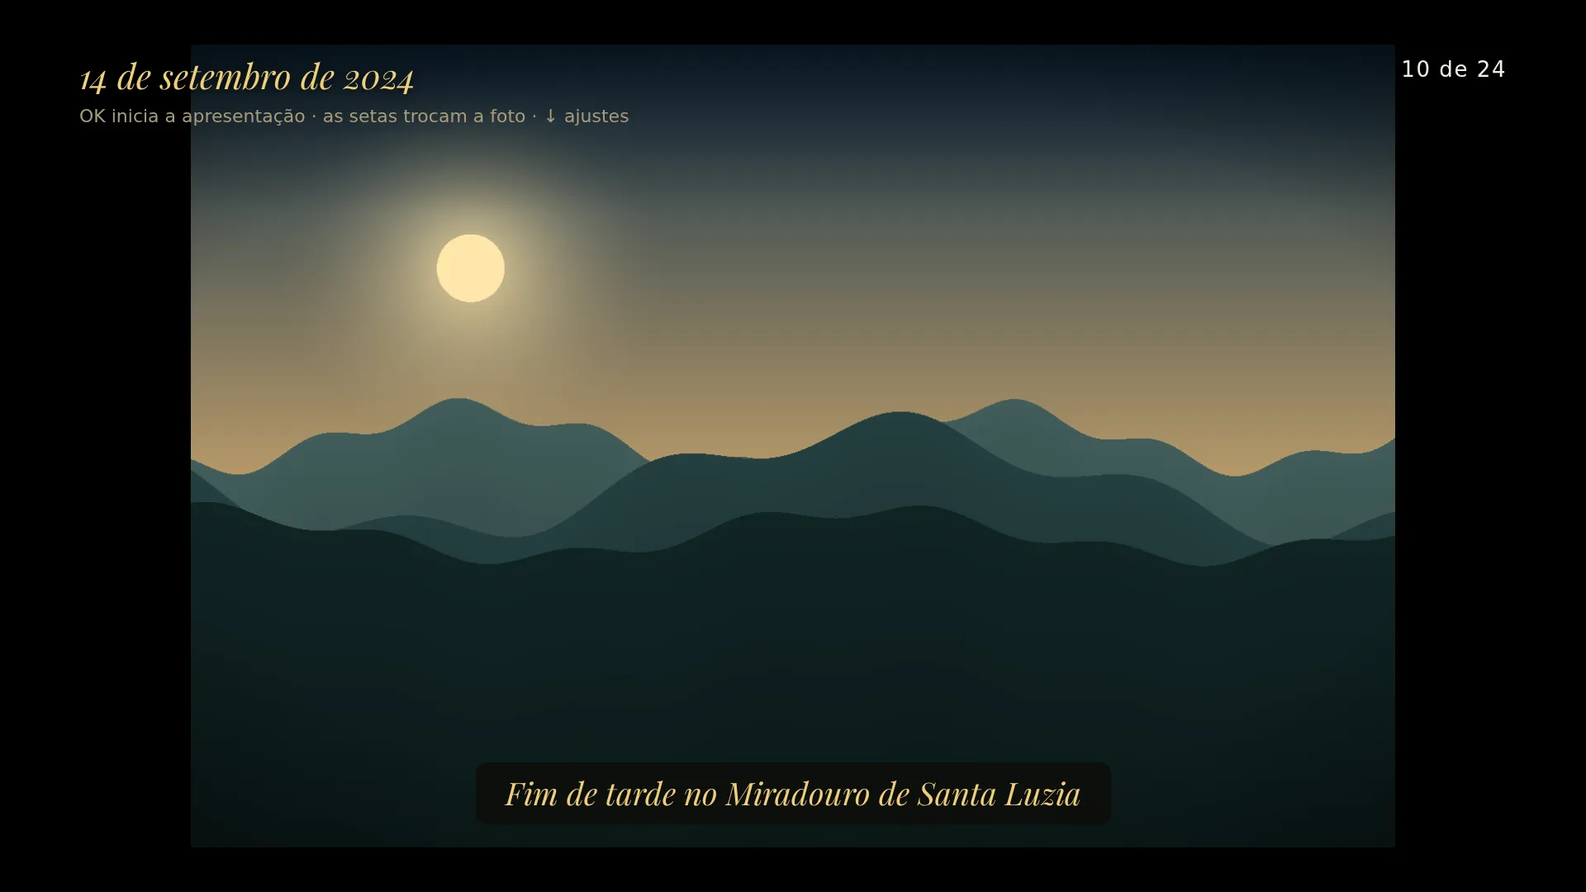
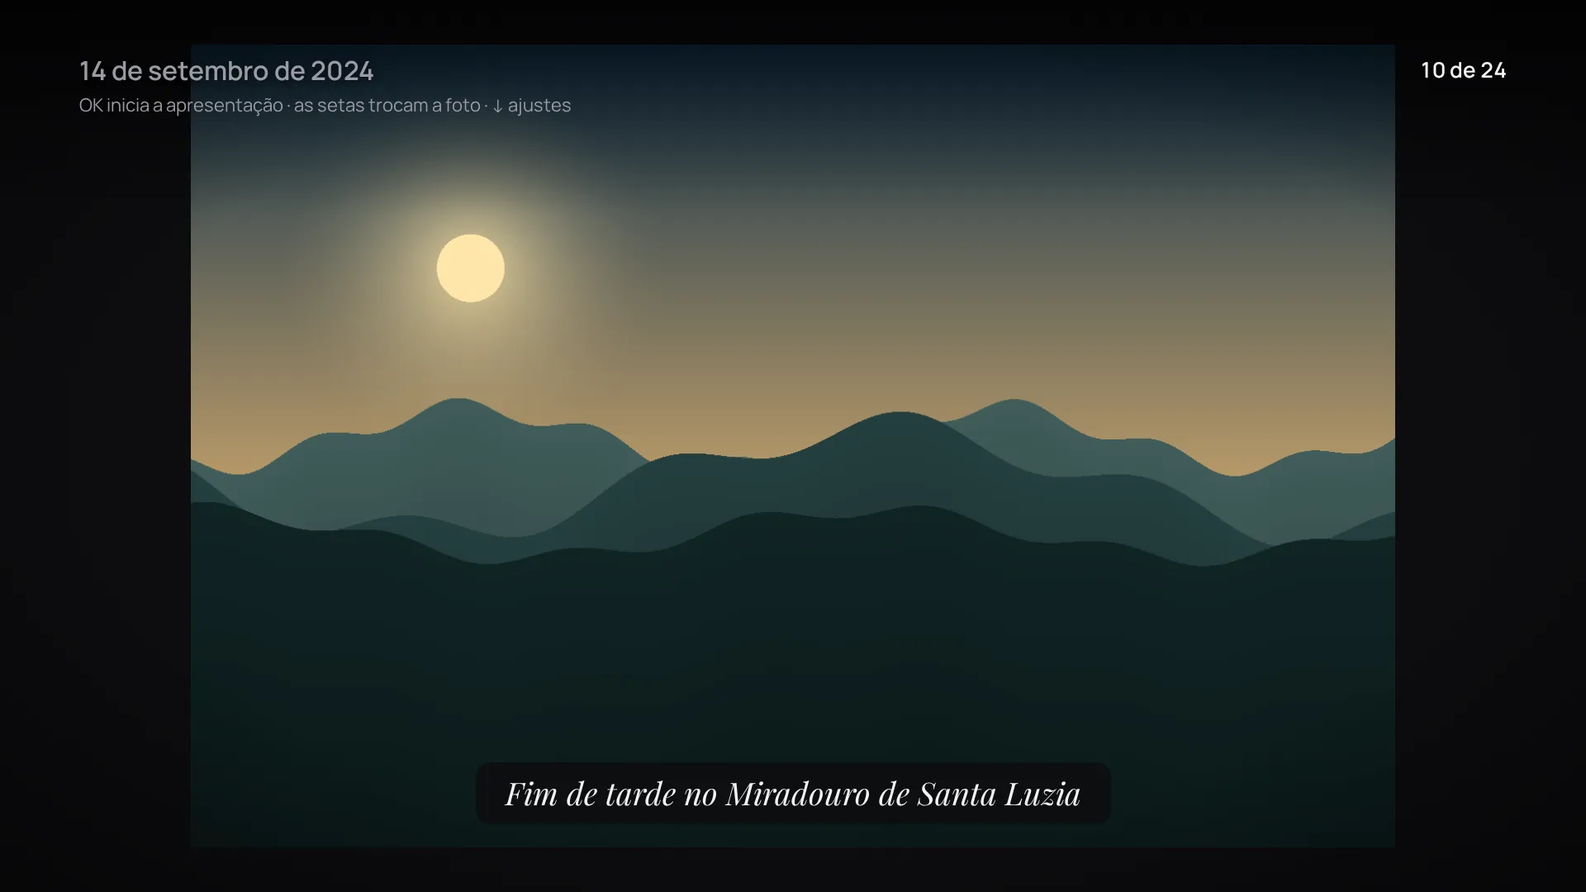
docs: capture the new look and document the modern identity
The screenshots of docs/screenshots/ are captured again with the graphite
and amber look. The README describes the look and links the comparison of
the icons, CONTRIBUTING the palette (its channels and shades), the type, the
logo, the focus and the screenshots, CLAUDE.md the rules of the look, and
the docs of both TV packages show the new icon. The CHANGELOG says the TV
packages need building again for it.

Changed region(s): [[0.0312, 0.0611, 0.4062, 0.1528], [0.3125, 0.8861, 0.6875, 0.9167], [0.875, 0.0611, 0.9688, 0.0917]]

diff --git a/CONTRIBUTING.md b/CONTRIBUTING.md
@@ -24,31 +24,31 @@ load where the key reaches them without the app.
 
 ### Make targets
 
-| Command                    | Description                                                                         |
-| -------------------------- | ----------------------------------------------------------------------------------- |
-| `make setup`               | Install the locked dependencies and the git hooks.                                  |
-| `make dev`                 | Serve the app with hot reload (Vite).                                               |
-| `make build`               | Bundle `dist/` and the webOS build, and check them against Chromium 68.             |
-| `make logo`                | Write the logo files from `scripts/logo/mark.ts` (the app's mark and `docs/logo/`). |
-| `make screenshots`         | Capture the main screens at 1920x1080 into `docs/screenshots/` (Playwright).        |
-| `make package-webos`       | Package the build as the LG webOS app (`.ipk`), see `docs/webos.md`.                |
-| `make test-webos`          | Run the `.ipk` from `file://` in a headless Chromium (Playwright).                  |
-| `make package-tizen`       | Package the build as the Samsung Tizen app (unsigned `.wgt`), see `docs/tizen.md`.  |
-| `make test-tizen`          | Run the `.wgt` from `file://` in a headless Chromium (Playwright).                  |
-| `make format`              | Format (Prettier) and apply the fixes ESLint can make.                              |
-| `make lint`                | ESLint, Stylelint and the Prettier check.                                           |
-| `make typecheck`           | tsc 7 strict: the app, the core alone, the tests and the tooling.                   |
-| `make test`                | Unit tests with coverage (100%, a ratchet).                                         |
-| `make lint-arch`           | Architecture contracts (dependency-cruiser).                                        |
-| `make dead-code`           | Unused files, exports and dependencies (knip).                                      |
-| `make audit`               | Known vulnerabilities in the dependencies.                                          |
-| `make suppressions`        | Suppression ratchet against `suppressions-baseline.json`.                           |
-| `make quality`             | All of the above but the build: what the pre-commit hook runs.                      |
-| `make mutation`            | Mutation testing of the whole core (weekly in CI).                                  |
-| `make mutation-changed`    | Mutation testing of the core files changed against `BASE` (`origin/main`).          |
-| `make suppressions-update` | Lower the suppression baseline after removing suppressions.                         |
-| `make risk-labels`         | Create or update the `risk:<level>` labels on GitHub (needs `gh`).                  |
-| `make all`                 | Everything CI runs on a pull request.                                               |
+| Command                    | Description                                                                               |
+| -------------------------- | ----------------------------------------------------------------------------------------- |
+| `make setup`               | Install the locked dependencies and the git hooks.                                        |
+| `make dev`                 | Serve the app with hot reload (Vite).                                                     |
+| `make build`               | Bundle `dist/` and the webOS build, and check them against Chromium 68.                   |
+| `make logo`                | Write the logo files from `scripts/logo/mark.ts` (the app's mark and icon, `docs/logo/`). |
+| `make screenshots`         | Capture the main screens at 1920x1080 into `docs/screenshots/` (Playwright).              |
+| `make package-webos`       | Package the build as the LG webOS app (`.ipk`), see `docs/webos.md`.                      |
+| `make test-webos`          | Run the `.ipk` from `file://` in a headless Chromium (Playwright).                        |
+| `make package-tizen`       | Package the build as the Samsung Tizen app (unsigned `.wgt`), see `docs/tizen.md`.        |
+| `make test-tizen`          | Run the `.wgt` from `file://` in a headless Chromium (Playwright).                        |
+| `make format`              | Format (Prettier) and apply the fixes ESLint can make.                                    |
+| `make lint`                | ESLint, Stylelint and the Prettier check.                                                 |
+| `make typecheck`           | tsc 7 strict: the app, the core alone, the tests and the tooling.                         |
+| `make test`                | Unit tests with coverage (100%, a ratchet).                                               |
+| `make lint-arch`           | Architecture contracts (dependency-cruiser).                                              |
+| `make dead-code`           | Unused files, exports and dependencies (knip).                                            |
+| `make audit`               | Known vulnerabilities in the dependencies.                                                |
+| `make suppressions`        | Suppression ratchet against `suppressions-baseline.json`.                                 |
+| `make quality`             | All of the above but the build: what the pre-commit hook runs.                            |
+| `make mutation`            | Mutation testing of the whole core (weekly in CI).                                        |
+| `make mutation-changed`    | Mutation testing of the core files changed against `BASE` (`origin/main`).                |
+| `make suppressions-update` | Lower the suppression baseline after removing suppressions.                               |
+| `make risk-labels`         | Create or update the `risk:<level>` labels on GitHub (needs `gh`).                        |
+| `make all`                 | Everything CI runs on a pull request.                                                     |
 
 ## Making a change
 
@@ -91,28 +91,44 @@ writes is out of scope.
 
 ## The look of the app
 
-- **Palette**: a warm near-black background (`#0E0C09`), surfaces (`#1B1710`), golds (`#D4A93C`,
-  light `#F0CF7A`, dark `#8A6A1F`, for lines only) and warm text (`#F4EEDF`, secondary `#A89B7C`):
-  the custom properties at the top of `src/ui/styles.css`, the same colors as the logo. Every text
+- **Palette**: neutral graphite with one soft amber accent: background `#0C0C0E`, surface `#17171B`,
+  raised surface `#222228`, border `#2B2B33`, text `#F4F4F6`, secondary text `#9B9BA7`, amber
+  `#F0B65A` (light `#FFD08A`, dark `#B8802D`) and danger `#E5625A`, kept for destructive actions.
+  They are the custom properties at the top of `src/ui/styles.css`, the only place a color is
+  written (the `--gold` names are the amber): a color changes on its line. Those that also show with
+  transparency are written as their channels (`--gold-rgb: 240 182 90`), and every shade of them is
+  `rgb(var(--gold-rgb) / 30%)` (Chromium 65 reads it), never a hexadecimal of its own. The logo
+  (`scripts/logo/mark.ts`) draws with the same colors. Every text
   keeps a contrast of 4.5:1 or more with what is behind it.
-- **Type**: Playfair Display (SIL Open Font License, `src/ui/fonts/OFL.txt`) for titles, names and
-  dates, as two Latin-subset WOFF2 files (normal and italic, about 44 KB) with `font-display: swap`;
-  the font of the system for the rest. No font is loaded from the network.
-- **The logo** is drawn from its shapes in `scripts/logo/mark.ts`: an M on the horizon under the
-  arch of a rising sun, over two lines of water. `make logo` writes it as SVG
-  (`src/ui/assets/mirante-mark.svg`, which the app shows, and `docs/logo/`, with the horizontal logo
-  and its name in Playfair Display), and the TV packages rasterize the same shapes into their icons
-  (`scripts/packaging/icon.ts`). Never edit the SVG files by hand: a test fails while one differs
+- **Type**: Manrope (SIL Open Font License, `src/ui/fonts/OFL.txt`), a geometric sans-serif, for the
+  whole interface, titles included, in its weights 400, 600 and 700; hierarchy comes from weight
+  and size, never from ornaments, and counters, counts and years use tabular figures
+  (`font-variant-numeric: tabular-nums`). The italic of Playfair Display only sets the captions of
+  the photos (the photo book, when it comes, keeps it for the title of its cover). Four Latin-subset WOFF2 files, about
+  64 KB, with `font-display: swap`; no font is loaded from the network.
+- **The logo** is drawn from its shapes in `scripts/logo/mark.ts` (`scripts/logo/shapes.ts`: strokes
+  of one width with round ends and corners, and disks): two rounded peaks in one amber stroke that
+  make a geometric M, and the sun, a dot above and to the right of the right peak. The icon sets it
+  on a rounded graphite square with a diagonal gradient (`#1B1B20` to `#0E0E11`). `make logo` writes
+  `src/ui/assets/mirante-mark.svg` and `mirante-icon.svg`, which the app shows (the mark on the
+  screens, the icon on the opening), and `docs/logo/`: the icon and the horizontal logo, the mark and
+  the name in lowercase Manrope semibold, slightly tightened. The TV packages rasterize the same
+  shapes and gradient into their icons (`scripts/packaging/icon.ts`). The two alternatives the icon
+  was chosen against (`scripts/logo/alternatives.ts`) only show in
+  `docs/screenshots/icone-alternativas.webp`. Never edit the SVG files by hand: a test fails while one differs
   from the shapes.
+- **Focus**: an amber ring of 3 px, one short glow and a growth to 1.04 (`--focus-glow` and
+  `--focus-scale`), on every focusable element; the focus never leaves a doubt.
 - **Motion and effects for the TVs' GPUs**: only `opacity` and `transform` animate (screens fade in
-  in 320 ms, the viewer's transitions take 0.9 to 1.5 s and the slow zoom drifts for the time of a
-  photo, the focused tile grows to 1.04), shadows and glows stay
+  in 320 ms, the icon of the opening appears by opacity and a short scale, the viewer's transitions
+  take 0.9 to 1.5 s and the slow zoom drifts for the time of a photo), shadows and glows stay
   on the focused element, and darkening is done with gradients. Stylelint rejects `blur()` and the
   individual `translate`, `scale` and `rotate` properties (Chromium 104) besides what `browserslist`
   lacks.
 - **Screenshots**: `make screenshots` writes the main screens to `docs/screenshots/` (WebP, each under
   300 KB) from the build, against a fake Immich whose photos are landscapes drawn from their ids
-  (`e2e/screenshots.test.ts`). Run it after a visual change and commit the images with it.
+  (`e2e/screenshots.test.ts`), and the icon beside its two alternatives
+  (`icone-alternativas.webp`). Run it after a visual change and commit the images with it.
 
 ## The pipeline
 

diff --git a/CLAUDE.md b/CLAUDE.md
@@ -55,10 +55,11 @@ src/platform/  what differs between TVs and browsers: config.json, polyfills, th
                codes of the remote controls of Tizen and webOS (and the Info key Tizen registers),
                the localStorage of the settings, the random seeds
 src/ui/        Preact components, src/ui/messages.ts (every text people read), styles.css, the
-               fonts it ships (src/ui/fonts) and the mark of the logo (src/ui/assets, written by
-               make logo)
+               fonts it ships (src/ui/fonts) and the mark and the icon of the logo (src/ui/assets,
+               written by make logo)
 src/main.tsx   composition root: wires the adapters into the UI
-scripts/       tooling: the logo (scripts/logo: its shapes, the SVG files and their check), the TV
+scripts/       tooling: the logo (scripts/logo: its shapes, the SVG files and their check, and the
+               two alternatives of the icon, only drawn into a screenshot), the TV
                packages (scripts/packaging, shared: the icon, the packaged config.json, the app
                folder; scripts/webos, with the classic-script plugin of the webOS build;
                scripts/tizen), the browser API check (scripts/browser-apis), Quality Report,
@@ -155,15 +156,19 @@ docs/          docs/webos.md and docs/tizen.md: packaging, Developer Mode, signi
   and `opacity` change, few elements animate, and nothing relies on `overflow`, which Chromium 68
   supports only in part: screens are `position: fixed` and off-screen cells are hidden.
 - **Overscan**: every screen keeps its content inside the safe area, 5% of each edge.
-- **The look** (CONTRIBUTING.md, "The look of the app"): the palette of the logo (warm near-black,
-  golds, warm text; every text at a contrast of 4.5:1 or more; the dark gold only draws lines) as
-  custom properties of `src/ui/styles.css`, Playfair Display for titles (Latin-subset WOFF2 shipped
-  in `src/ui/fonts`, OFL, `font-display: swap`) and the system font for the rest; never a font or an
-  image from the network but Immich's. Only `opacity` and `transform` animate; glows stay on the
+- **The look** (CONTRIBUTING.md, "The look of the app"): the palette of the logo (neutral graphite
+  with one soft amber accent, the `--gold` names; every text at a contrast of 4.5:1 or more, which
+  `src/ui/palette.test.ts` checks) as custom properties of `src/ui/styles.css`, the only place a
+  color is written: shades with transparency are `rgb(var(--name-rgb) / alpha)` of the channels
+  declared there, never a loose value in a rule. Manrope 400, 600 and 700 for the whole interface,
+  titles included, tabular figures where numbers count, and the italic of Playfair Display only for
+  the captions (the photo book, when it comes, keeps it for the title of its cover), Latin-subset
+  WOFF2 shipped in `src/ui/fonts`, OFL, `font-display: swap`; never a font or an image from the
+  network but Immich's. Focus: an amber ring, one short glow and `scale(1.04)`. Only `opacity` and `transform` animate; glows stay on the
   focused element; darken with gradients, never `filter: blur` or `backdrop-filter` (Stylelint bans
   `blur()` and the individual `translate`, `scale` and `rotate` properties). The logo is drawn from
-  `scripts/logo/mark.ts` (the TV icons too): run `make logo` after changing it, never edit its SVG
-  files by hand. After a visual change, run `make screenshots` and commit `docs/screenshots/`.
+  `scripts/logo/mark.ts` (the app's icon and the TV icons too): run `make logo` after changing it,
+  never edit its SVG files by hand. After a visual change, run `make screenshots` and commit `docs/screenshots/`.
 - **Relative paths** (`base: './'`) and **no service worker**: the packaged apps load from `file://`.
 - **No module script on webOS**: webOS serves `file://` without a MIME type, and its Chromium refuses
   a module script then (the owner's LG showed a grey screen). The webOS build

diff --git a/README.md b/README.md
@@ -103,7 +103,7 @@ fade without zoom, for slow TVs. Only `opacity` and `transform` animate, and at 
 are decoded at once (the photo after the next one is only downloaded ahead).
 
 The **caption** of a photo is its description in Immich (written in the info panel of the photo),
-shown under the photo in the golden italic serif. It is read for the photo on the screen and the next one only,
+shown under the photo in an italic serif. It is read for the photo on the screen and the next one only,
 with a small cache; a photo without one shows nothing, and nothing on the screen moves.
 
 ### Settings
@@ -126,10 +126,12 @@ files, and keeps at most three photos decoded. Every screen stays inside the TVs
 
 ## Look
 
-A warm near-black with golds, the titles in a serif (Playfair Display, shipped with the app) and
-the logo throughout: an M standing on the horizon under the arch of a rising sun, the view from a
-_mirante_. The focus is a golden ring that grows a little; screens fade in, and the viewer
-crossfades between photos. Captured by `make screenshots` at 1920x1080, against a fake library:
+Graphite with one soft amber accent, and one modern sans-serif for the whole interface (Manrope,
+shipped with the app); an italic serif only for the captions of the photos. The icon is a rounded
+graphite square with an amber mark: two rounded peaks that make an M, and the sun just above the
+right one, the view from a _mirante_. Cards have round corners on two levels of graphite, the focus
+is an amber ring that grows a little, screens fade in, and the viewer crossfades between photos.
+Captured by `make screenshots` at 1920x1080, against a fake library:
 
 | Start screen                                     | Albums                                     |
 | ------------------------------------------------ | ------------------------------------------ |
@@ -146,7 +148,8 @@ Every screen: [opening](docs/screenshots/01-abertura.webp), [start](docs/screens
 [empty album](docs/screenshots/09-album-vazio.webp), [loading](docs/screenshots/10-carregando.webp),
 [error](docs/screenshots/11-erro.webp), [presentations](docs/screenshots/12-apresentar.webp),
 [settings](docs/screenshots/13-ajustes.webp) and
-[settings over a photo](docs/screenshots/14-ajustes-na-foto.webp).
+[settings over a photo](docs/screenshots/14-ajustes-na-foto.webp). The icon was chosen over two
+alternatives, compared in [docs/screenshots/icone-alternativas.webp](docs/screenshots/icone-alternativas.webp).
 
 ## Configuration
 
@@ -266,8 +269,8 @@ installing and opening the app with the Tizen CLI (`tizen package`, `sdb connect
 The TVs have little memory and old engines. Preact keeps React's component and hooks model at a
 fraction of its weight (about 5 kB gzipped against about 60 kB for React 19 with `react-dom`), has no
 dependency, and its output runs on engines much older than Chromium 68. The whole app, Immich SDK
-and every screen included, is about 30 kB of JavaScript gzipped today, plus the two files of its
-serif (about 44 kB).
+and every screen included, is about 30 kB of JavaScript gzipped today, plus its four font files
+(about 64 kB: three weights of Manrope and the italic of Playfair Display).
 
 ## Architecture
 

diff --git a/docs/webos.md b/docs/webos.md
@@ -86,13 +86,19 @@ of `make quality`) would fail. Instead:
 
 What goes into the package:
 
-| File                    | Where it comes from                                                                                     |
-| ----------------------- | ------------------------------------------------------------------------------------------------------- |
-| `index.html`, `assets/` | `build/webos-dist/`, byte for byte: `ares-package` runs with `--no-minify`, so it does not minify again |
-| `appinfo.json`          | `webos/appinfo.json`, plus the `version` of `package.json`                                              |
-| `config.json`           | `MIRANTE_IMMICH_URL`, or `webos/config.json`                                                            |
-| `icon.png`              | 80x80, the mark of the logo drawn by `scripts/packaging/icon.ts` (no image is committed)                |
-| `largeIcon.png`         | 130x130, drawn the same way                                                                             |
+| File                    | Where it comes from                                                                                      |
+| ----------------------- | -------------------------------------------------------------------------------------------------------- |
+| `index.html`, `assets/` | `build/webos-dist/`, byte for byte: `ares-package` runs with `--no-minify`, so it does not minify again  |
+| `appinfo.json`          | `webos/appinfo.json`, plus the `version` of `package.json`                                               |
+| `config.json`           | `MIRANTE_IMMICH_URL`, or `webos/config.json`                                                             |
+| `icon.png`              | 80x80, the icon of the app (the amber mark on its graphite square), drawn by `scripts/packaging/icon.ts` |
+| `largeIcon.png`         | 130x130, drawn the same way                                                                              |
+
+<img src="logo/mirante-icon.svg" alt="The icon of Mirante" width="130">
+
+The icons are drawn from the same shapes as [`docs/logo/mirante-icon.svg`](logo/mirante-icon.svg):
+nothing is committed, and a package made after `make logo` changes them always carries the current
+icon.
 
 `webos/appinfo.json` declares the app (`com.mathmed.mirante`, a `web` app opening `index.html` at
 1920x1080). It has no `version`: the version is always the one of `package.json`. It sets

diff --git a/CHANGELOG.md b/CHANGELOG.md
@@ -8,6 +8,25 @@ All notable changes to Mirante are documented in this file. The format is based 
 
 ### Changed
 
+- **A modern identity: graphite with a soft amber accent.** The warm near-black and golds give way
+  to neutral graphite (background `#0C0C0E`, surfaces `#17171B` and `#222228`) with one amber
+  (`#F0B65A`), every color set once in `src/ui/styles.css`, and every text at a contrast of 4.5:1 or
+  more, checked by a test. The whole interface, titles included, is set in Manrope (400, 600 and
+  700, shipped with the app, OFL), with tabular figures on counters and counts; Playfair Display
+  keeps only its italic, for the captions of the photos. Cards have round corners (20 to 28 px) on
+  two levels of graphite, the line icons are redrawn with a stroke of 2 and round ends, the focus is
+  an amber ring with one short glow and a growth to 1.04, and the name no longer shows in wide
+  uppercase. The viewer keeps a thin amber progress line, the date in the secondary text and a
+  subtler vignette. The fonts weigh about 64 KB, against 44 KB before.
+- **A new icon and logo.** A rounded graphite square with a diagonal gradient, and in its middle an
+  amber mark: two rounded peaks in one stroke that make a geometric M, and the sun, a dot above the
+  right one. The horizontal logo sets the mark beside the name in lowercase Manrope semibold. The
+  opening now shows the icon appearing by opacity and a short scale. `make logo` writes the app's
+  mark and icon and `docs/logo/`; the webOS and Tizen icons are drawn from the same shapes, so the
+  TV packages need building again (`make package-webos`, `make package-tizen`; a signed Tizen
+  package needs signing again). `docs/screenshots/icone-alternativas.webp` compares the icon with
+  the two alternatives it was chosen against, which nothing ships.
+
 - **The proxy needs two more routes, and one more CORS header for the TV apps.** The presentation
   of the whole library draws its photos with `POST /api/search/random` (a read, with a JSON body)
   and the captions come from `GET /api/assets/{id}`. A proxy that only lets through the routes the

diff --git a/docs/tizen.md b/docs/tizen.md
@@ -68,12 +68,18 @@ your certificates as described below. The unsigned `.wgt` holds exactly the file
 
 What goes into the package:
 
-| File                    | Where it comes from                                                                     |
-| ----------------------- | --------------------------------------------------------------------------------------- |
-| `index.html`, `assets/` | `dist/`, byte for byte                                                                  |
-| `config.xml`            | `tizen/config.xml`, plus the `version` of `package.json`                                |
-| `config.json`           | `MIRANTE_IMMICH_URL`, or `tizen/config.json`                                            |
-| `icon.png`              | 117x117, the mark of the logo drawn by `scripts/packaging/icon.ts` (no committed image) |
+| File                    | Where it comes from                                                                                        |
+| ----------------------- | ---------------------------------------------------------------------------------------------------------- |
+| `index.html`, `assets/` | `dist/`, byte for byte                                                                                     |
+| `config.xml`            | `tizen/config.xml`, plus the `version` of `package.json`                                                   |
+| `config.json`           | `MIRANTE_IMMICH_URL`, or `tizen/config.json`                                                               |
+| `icon.png`              | 117x117, the icon of the app (the amber mark on its graphite square), drawn by `scripts/packaging/icon.ts` |
+
+<img src="logo/mirante-icon.svg" alt="The icon of Mirante" width="117">
+
+The icon is drawn from the same shapes as [`docs/logo/mirante-icon.svg`](logo/mirante-icon.svg):
+nothing is committed, and a package made after `make logo` changes it always carries the current
+icon. A signed package must be packaged and signed again to show a new icon.
 
 `tizen/config.xml` declares the widget:
 
